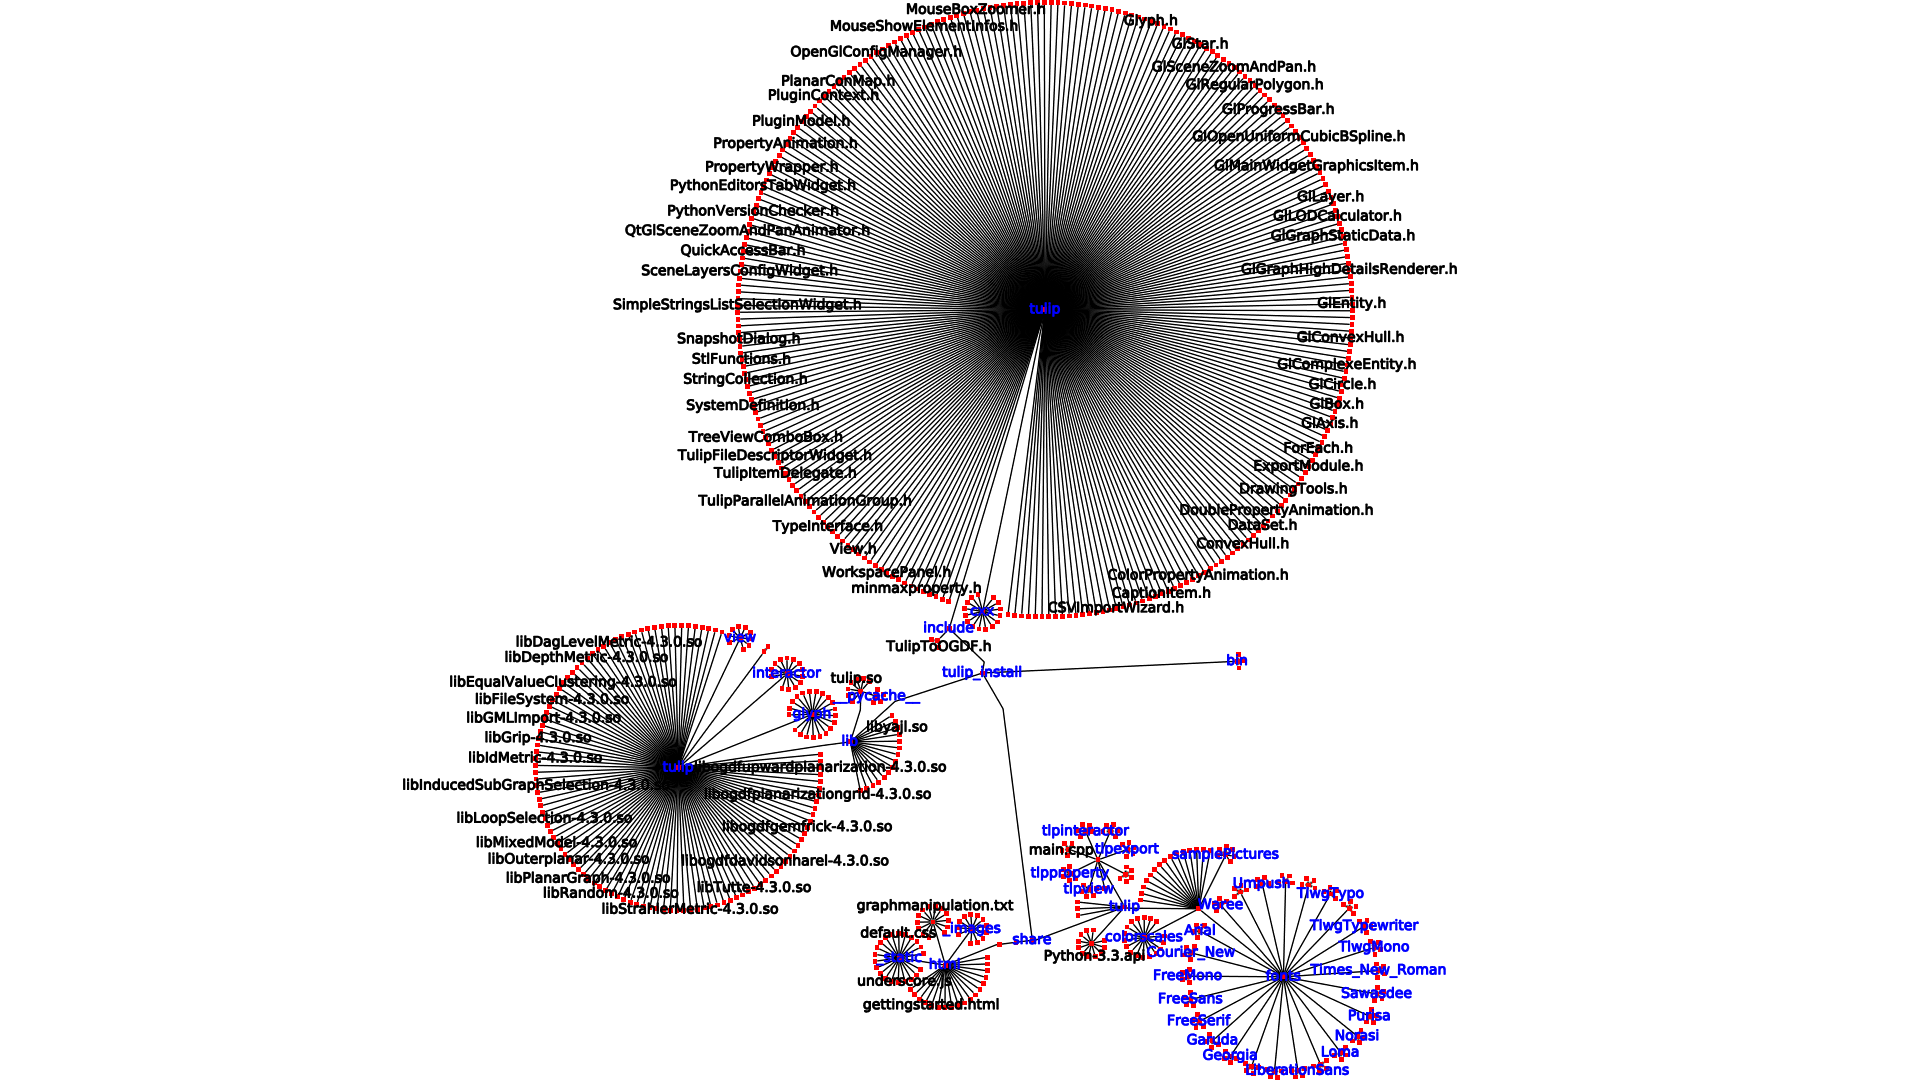
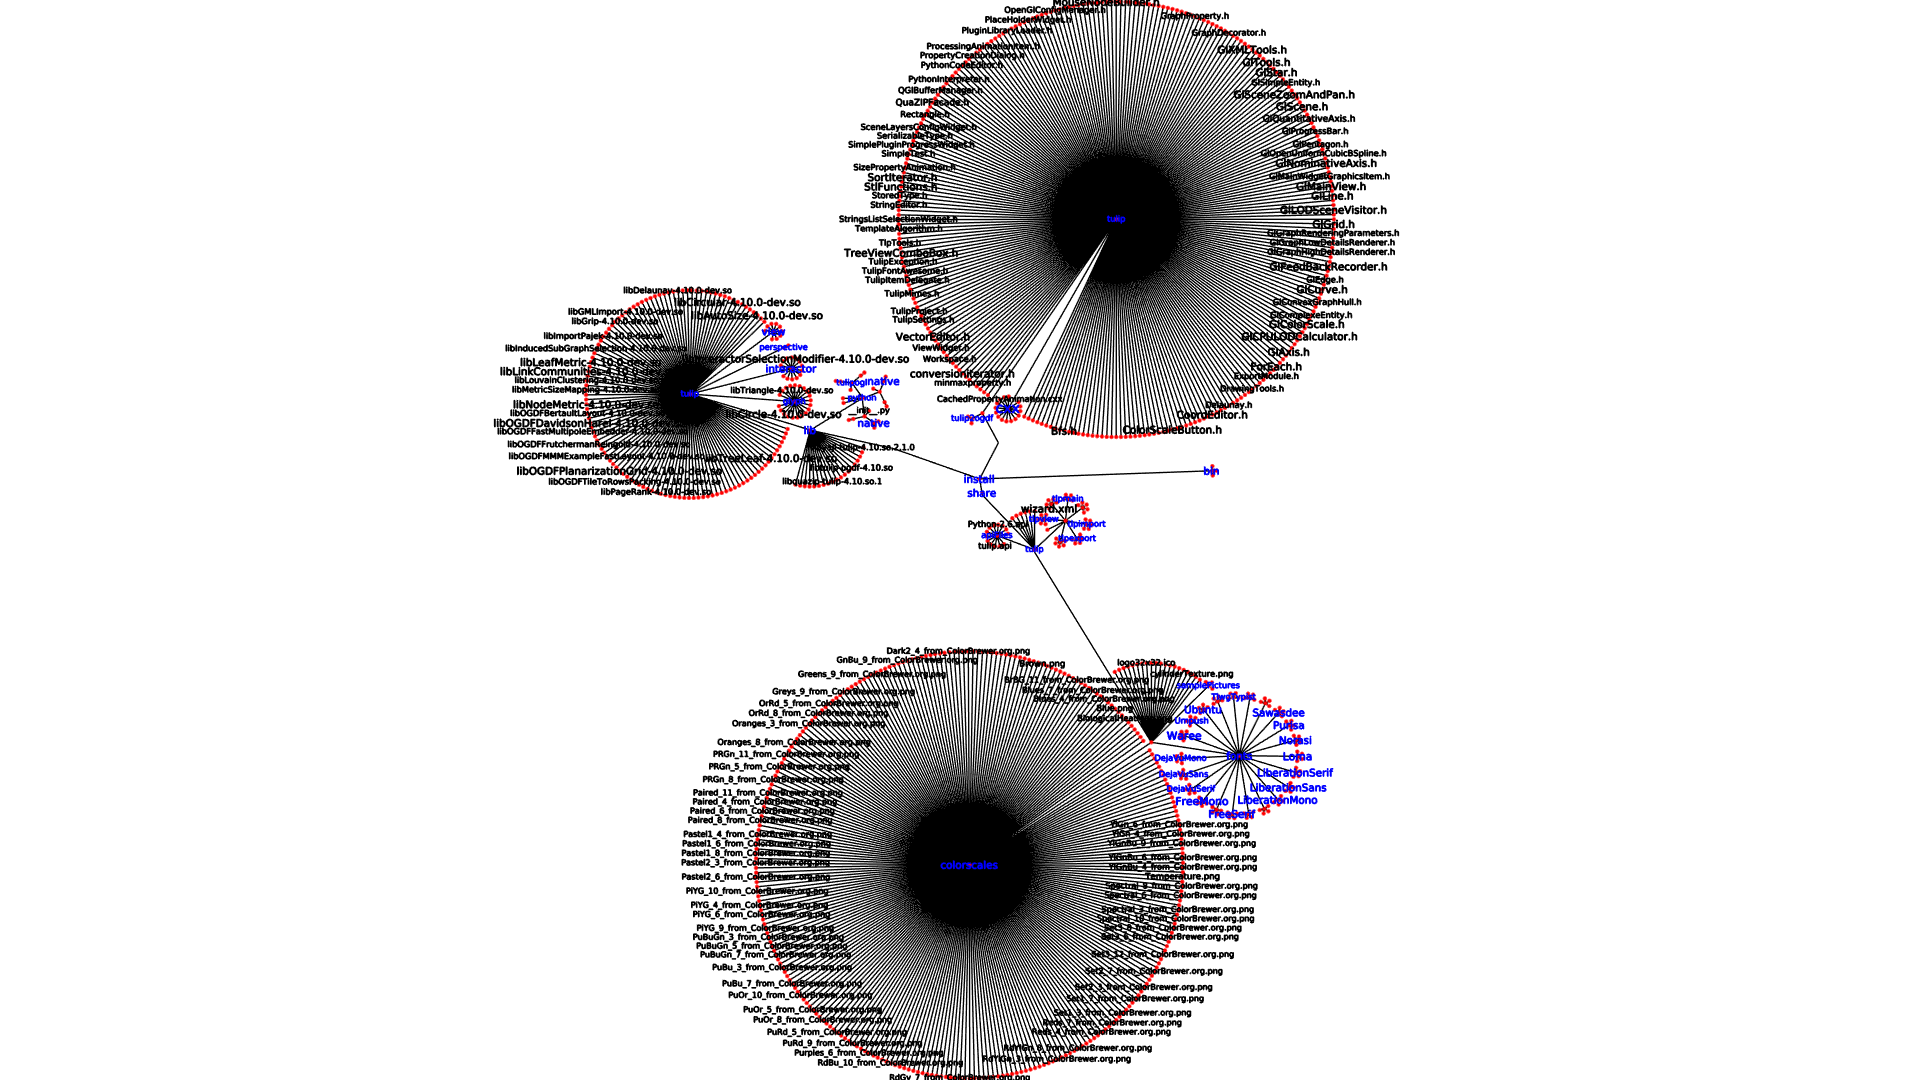
fix and update sample Python script generating a graph snapshot + update generated image
git-svn-id: https://svn.code.sf.net/p/auber/code/tulip@11746 f5d4c5f9-c943-4916-8a57-bd8605bf961c

Changed region(s): [[0.2188, 0.0, 0.75, 1.0]]

diff --git a/doc/python/creatingvisualizations.rst b/doc/python/creatingvisualizations.rst
@@ -170,17 +170,15 @@ visual attributes on graph elements and finally it creates a node link diagram v
     from tulipogl import *
     from tulipgui import *
 
-    # Create an empty graph
-    graph = tlp.newGraph()
-
     # Set the parameters for the "File System Directory" Import module
     fsImportParams = tlp.getDefaultPluginParameters("File System Directory", graph)
     fsImportParams["directory"] = "/home/antoine/tulip_install"
 
     # Import a file system directory content as a tree
-    tlp.importGraph("File System Directory", fsImportParams, graph)
+    graph = tlp.importGraph("File System Directory", fsImportParams)
 
     # Get some visual attributes properties
+    viewColor = graph.getColorProperty('viewColor')
     viewLabel =  graph.getStringProperty("viewLabel")
     viewLabelColor =  graph.getColorProperty("viewLabelColor")
     viewLabelBorderColor =  graph.getColorProperty("viewLabelBorderColor")
@@ -196,17 +194,18 @@ visual attributes on graph elements and finally it creates a node link diagram v
     renderingOrderingProp = graph.getDoubleProperty("rendering ordering")
 
     for n in graph.getNodes():
-	# the "File System Directory" import plugin adds a "File name" property containg the file name
-	viewLabel[n] = graph["File name"][n]
-	# if the node represents a directory, ensure that its label will be visible (as we will activate the "no labels overlaps" mode)
-	# also change its label color to blue
-	if graph.deg(n) > 1:
-      renderingOrderingProp[n] = 1
-      viewLabelColor[n] = viewLabelBorderColor[n] = tlp.Color(0, 0, 255)
-	else:
-      renderingOrderingProp[n] = 0
+      # the "File System Directory" import plugin adds a "File name" property containg the file name
+      viewLabel[n] = graph["File name"][n]
+      # if the node represents a directory, ensure that its label will be visible (as we will activate the "no labels overlaps" mode)
+      # also change its label color to blue
+      if graph.deg(n) > 1:
+        renderingOrderingProp[n] = 1
+        viewLabelColor[n] = viewLabelBorderColor[n] = tlp.Color.Blue
+      else:
+        renderingOrderingProp[n] = 0
 
     viewBorderWidth.setAllEdgeValue(1)
+    viewColor.setAllNodeValue(tlp.Color.Red)
 
     # Create a Node Link Diagram view without displaying it
     nodeLinkView = tlpgui.createView("Node Link Diagram view", graph, {}, False)
@@ -219,7 +218,7 @@ visual attributes on graph elements and finally it creates a node link diagram v
 
     # Activate the "no labels overlaps" mode
     renderingParams.setLabelsDensity(0)
-    renderingParams.setMinSizeOfLabel(7)
+    renderingParams.setMinSizeOfLabel(4)
     nodeLinkView.setRenderingParameters(renderingParams)
 
     # Save a snapshot of the view to an image file on disk
